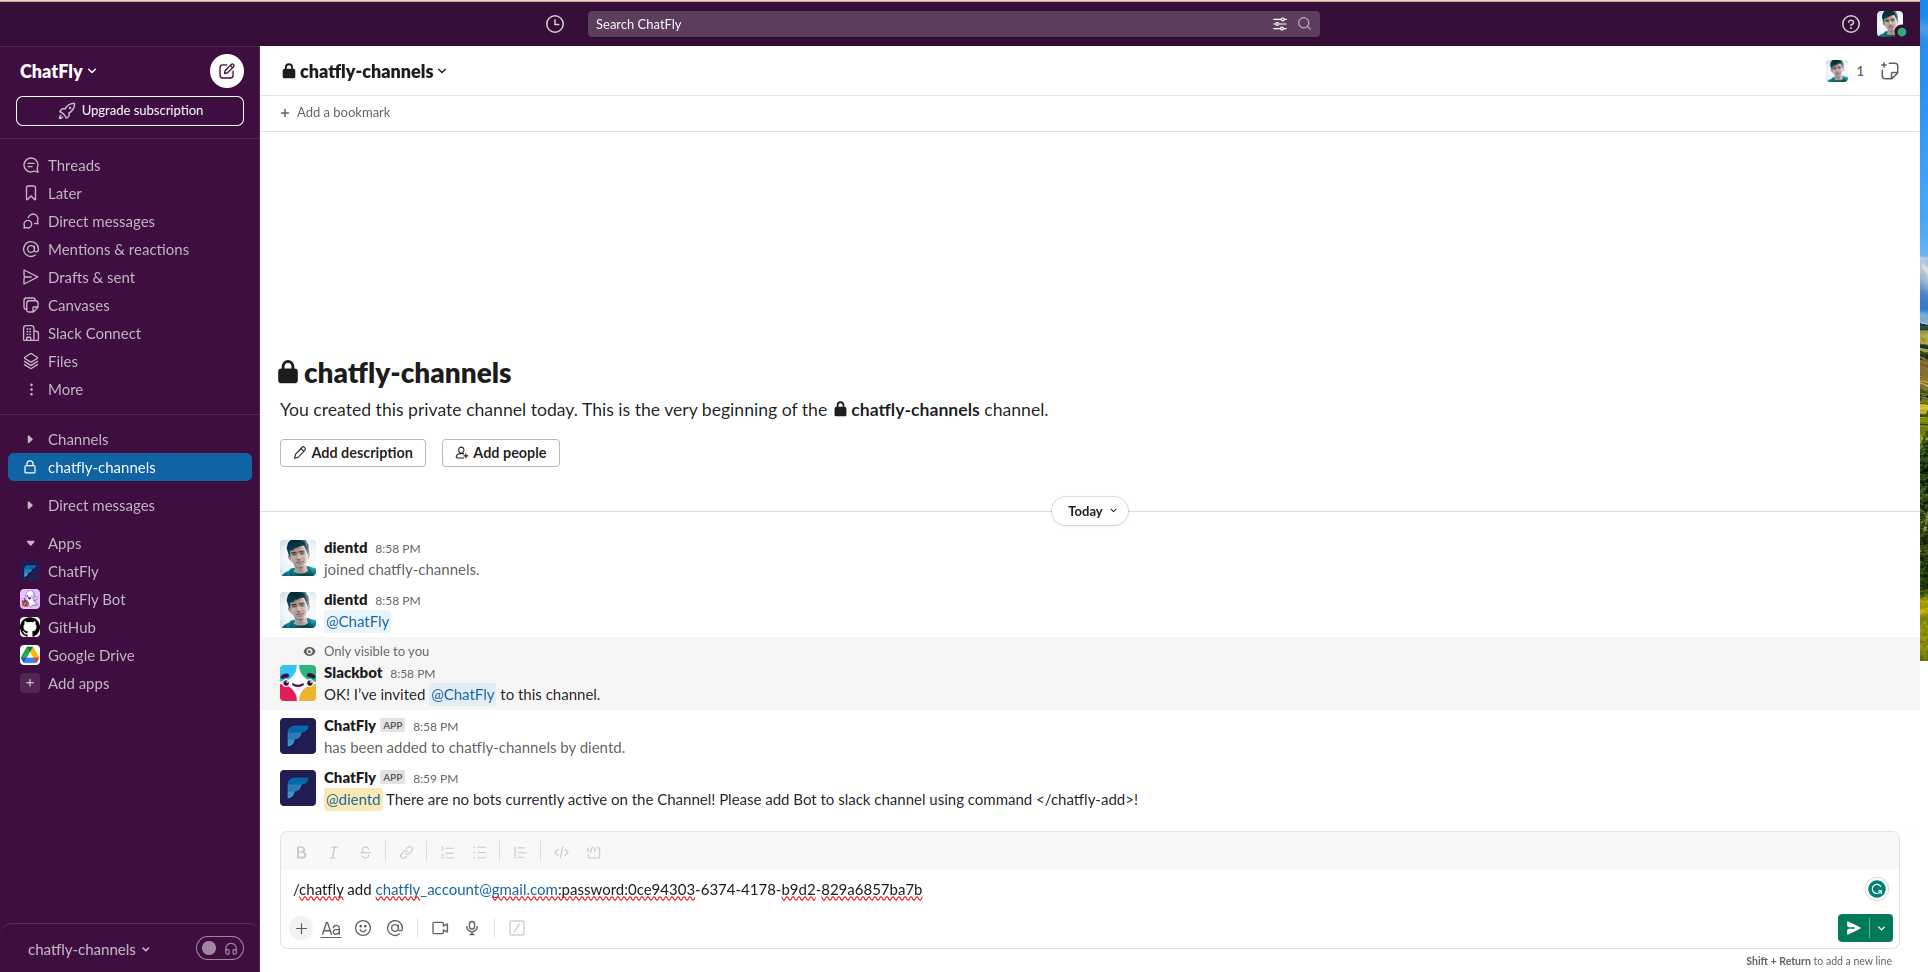
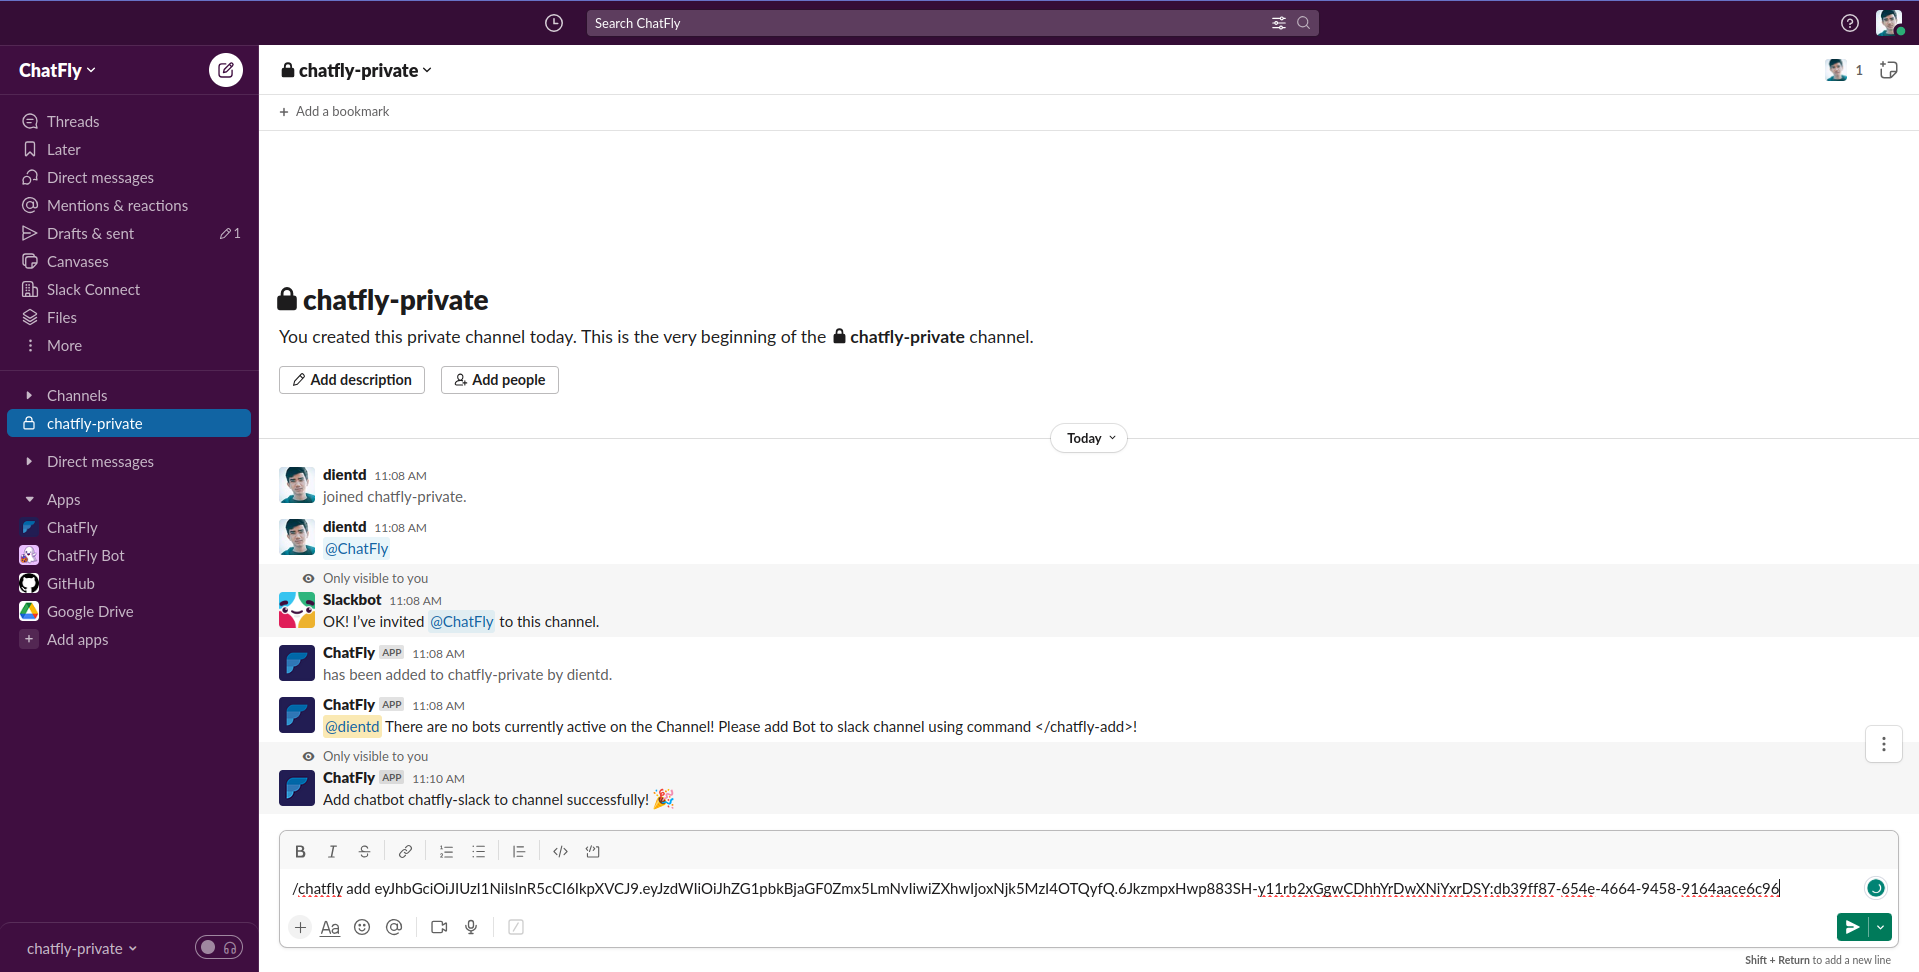
[CF]: update UI integration (#66)

diff --git a/src/pages/BuildChatbot/Integration/Modal/ModalSlack.tsx b/src/pages/BuildChatbot/Integration/Modal/ModalSlack.tsx
@@ -11,6 +11,10 @@ import {
   step2_6,
   step2_7,
 } from '@/images';
+import Code from '@/components/code';
+import Cookies from 'universal-cookie';
+import { RootState } from '@/states/store';
+import { useSelector } from 'react-redux';
 interface Props {
   open?: boolean;
   onClose: () => void;
@@ -18,7 +22,12 @@ interface Props {
 
 export default function ModalSlack({ open, onClose }: Props) {
   const { t } = useTranslation();
+  const { data } = useSelector((state: RootState) => state.buildChatBot);
 
+  const cookies = new Cookies();
+
+  const accessToken = cookies.get('access_token')
+  const commandCodeIntegrationSlack = `chatfly add ${accessToken}:${data.id}`
   return (
     <Modal
       closable={false}
@@ -85,14 +94,11 @@ export default function ModalSlack({ open, onClose }: Props) {
         <img src={step2_4} className="my-4" />
         <p className="text-[15px] ml-4 text-[#878787] mt-2">
           {t('success5AddSlack', { ns: 'config_bot' })}&nbsp;
-          <br />
-          <span className="ml-12 text-[13px] italic font-bold">
-            {t('Example', { ns: 'config_bot' })}
-          </span>
-          <br />
-          <span className="ml-12 text-[13px]">
-            {t('ExampleCommand', { ns: 'config_bot' })}
-          </span>
+          <br/>
+          <br/>
+          <div className='bg-[#f1f5f9] rounded-[5px] px-4 py-2'>
+            <Code language="html">{commandCodeIntegrationSlack}</Code>
+          </div>
         </p>
         <img src={step2_5} className="my-4" />
         <p className="text-[15px] ml-4 text-[#878787] mt-2">

diff --git a/src/pages/BuildChatbot/Integration/Modal/ModalEmbed.tsx b/src/pages/BuildChatbot/Integration/Modal/ModalEmbed.tsx
@@ -94,10 +94,10 @@ export default function ModalEmbed({ open, onClose }: Props) {
         placeholder=""
         rows={4}
         value={listDomain}
-        className="h-[100px] w-full py-2 rounded-[5px] border border-[#DCDEED] bg-[#ffffffeb] px-4 outline-none focus:border-primary focus-visible:shadow-none"
+        className="h-[100px] w-full rounded-[5px] border border-[#DCDEED] bg-[#ffffffeb] px-4 outline-none focus:border-primary focus-visible:shadow-none"
         onChange={(e) =>setListDomain(e.target.value)}
       />
-      <p className="text-[15px] text-[#878787]">
+      <p className="text-[15px] text-[#878787] pt-[20px]">
         {t('addChatbot', { ns: 'config_bot' })}
       </p>
       <div
